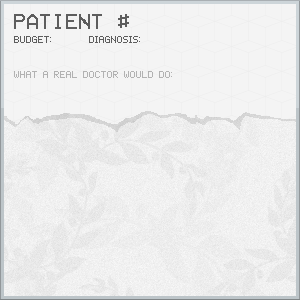
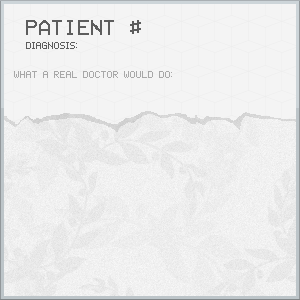
better and more obivous patient wealth system on patient sheet

Changed region(s): [[0.03, 0.03, 0.48, 0.18]]

diff --git a/src/stages/ContextMenuStage.js b/src/stages/ContextMenuStage.js
@@ -12,6 +12,9 @@ ContextMenuStage.prototype.preload = function() {
   const AUDIO_BASE_PATH = ASSETS_BASE_PATH + 'audio/';
 
   this.background = loader.loadImage(IMAGES_BASE_PATH + 'patientsheet.png');
+  this.postIt = loader.loadImage(IMAGES_BASE_PATH + 'postit.png');
+  this.dollar = loader.loadImage(IMAGES_BASE_PATH + 'dollar.png', 6, 1);
+  this.dollarAnimation = [0, 0, 0, 0, 0, 0, 1, 2, 3, 4];
   this.keyImage = loader.loadImage(IMAGES_BASE_PATH + 'keys.png', 9, 1);
 
   this.soundSliding = loader.loadAudio({src: AUDIO_BASE_PATH + 'sounds/paper-sliding/paper-sliding.mp3'});
@@ -43,19 +46,25 @@ ContextMenuStage.prototype.render = function(ctx, timer) {
   const x = w - this.background.width * p;
   ctx.translate(x, y);
   drawImageToScreen(ctx, this.background, 0, 0, 0, 1, 1, 0, 0);
+
+  
+  // Draw Wealth Postit
+  drawImageToScreen(ctx, this.postIt, -42, 7, 0, 1, 1, 0, 0);
+  const frame = getArrayFrame(timer.gameTime / 100, this.dollarAnimation);
+  drawFrame(ctx, this.dollar, this.patient.wealthLevel > 0 ? frame : 5, -35, 27, 0, 1, 1, 0, 0);
+  drawFrame(ctx, this.dollar, this.patient.wealthLevel > 1 ? frame : 5, -20, 25, 0, 1, 1, 0, 0);
+  drawFrame(ctx, this.dollar, this.patient.wealthLevel > 2 ? frame : 5, -5, 30, 0, 1, 1, 0, 0);
+
   // Draw Patient Overview
   ctx.translate(14, 14);
   // ID
-  bigFont.drawText(ctx, "" + this.patient.id, 118, 0, "dark");
+  bigFont.drawText(ctx, "" + this.patient.id, 130, 6, "dark");
   ctx.globalAlpha = 0.2;
-  // Wealth
-  const wealth = this.patient.wealthLevel == 1 ? "$" : this.patient.wealthLevel == 2 ? "$$" : "$$$";
-  mainFont.drawText(ctx, "$$$", 0, 34, "green");
-  ctx.globalAlpha = 1;
-  mainFont.drawText(ctx, wealth, 0, 34, "green");
+
   // Diagnosis
+  ctx.globalAlpha = 1;
   const diagnosis = this.patient.diagnosed ? (this.patient.cured ? "Cured" : this.patient.sickness.name) : "???";
-  mainFont.drawText(ctx, diagnosis, 80, 34, "orange");
+  mainFont.drawText(ctx, diagnosis, 70, 28, "orange");
 
   // Preferred option
   drawOption(72, 1, this.actions[0], "Safe");
